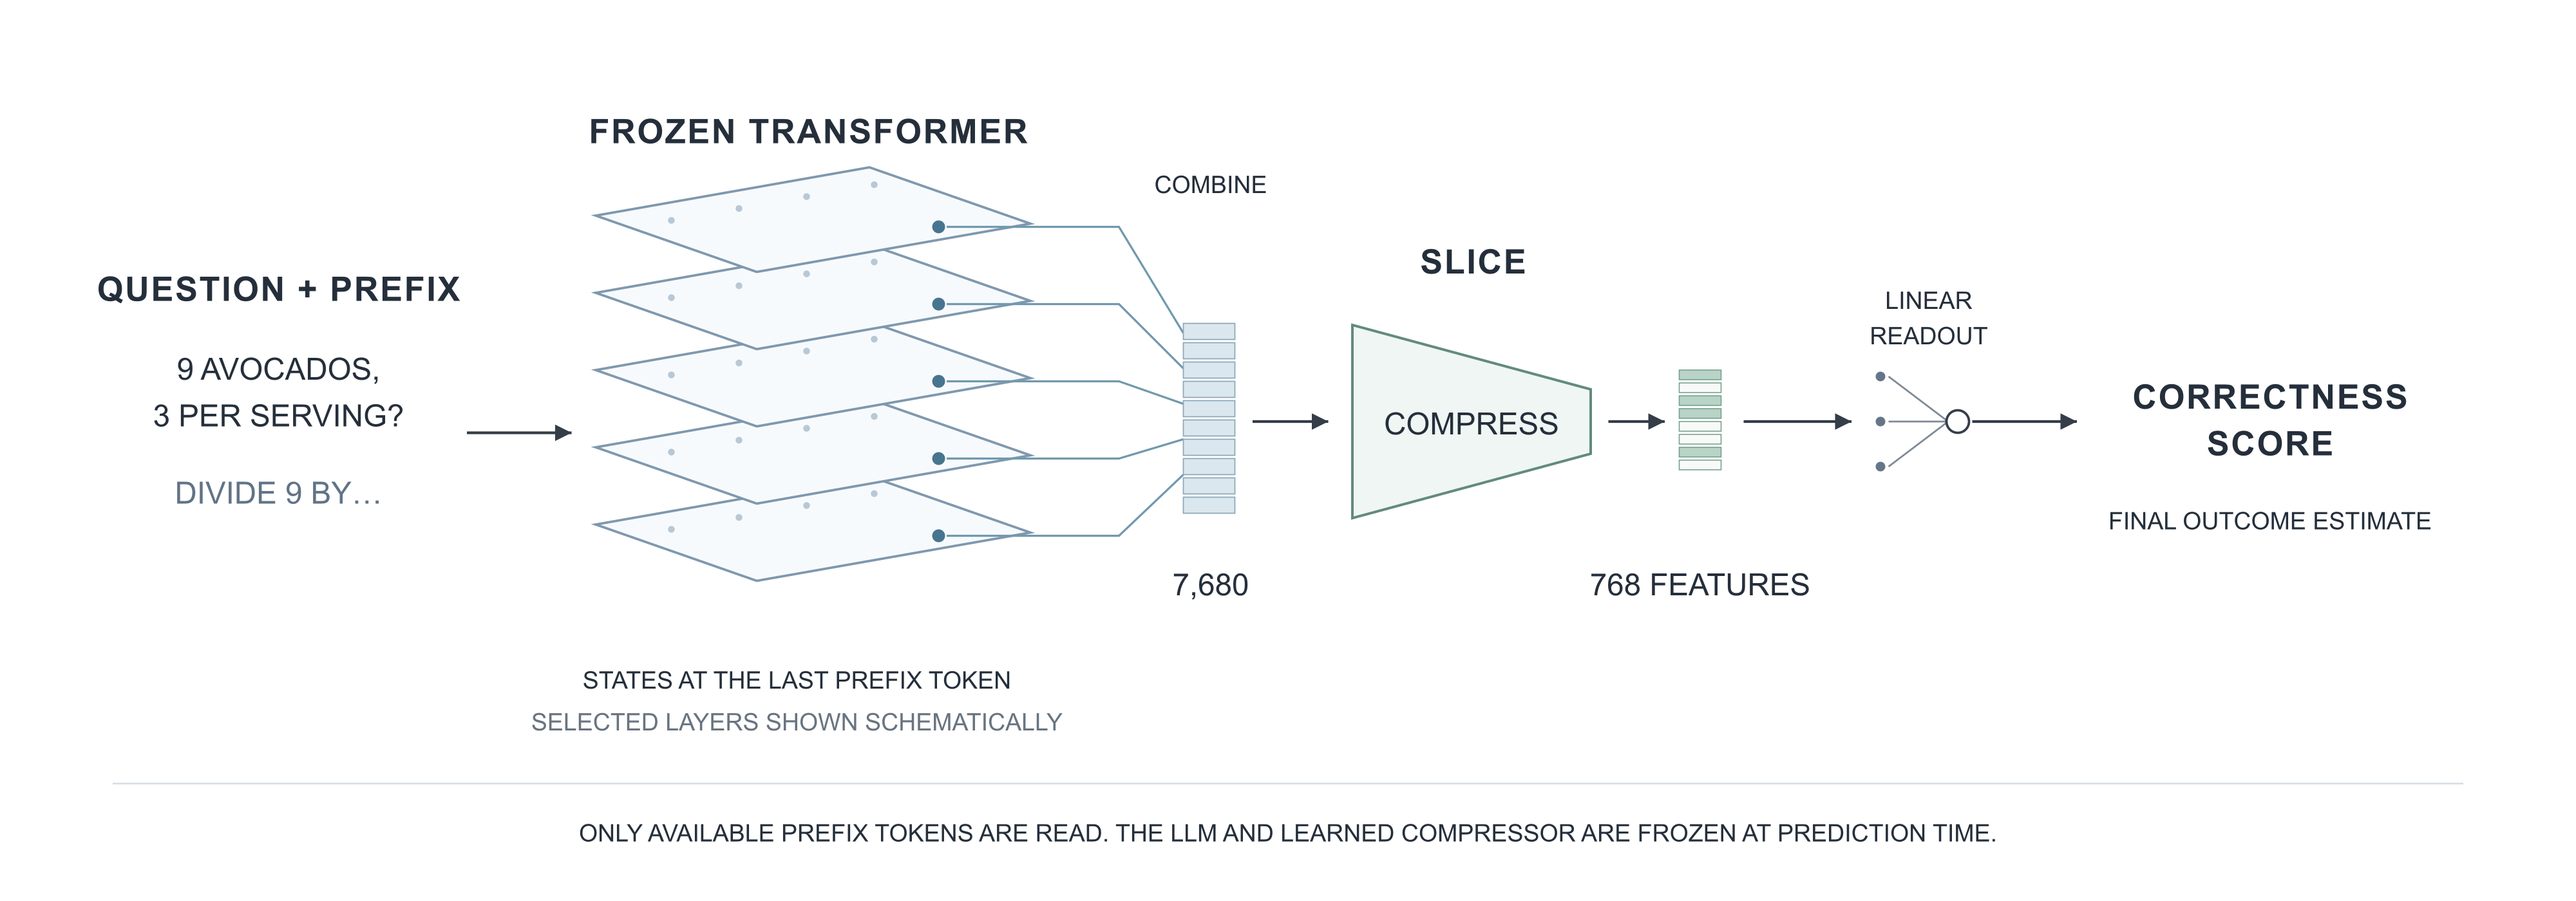
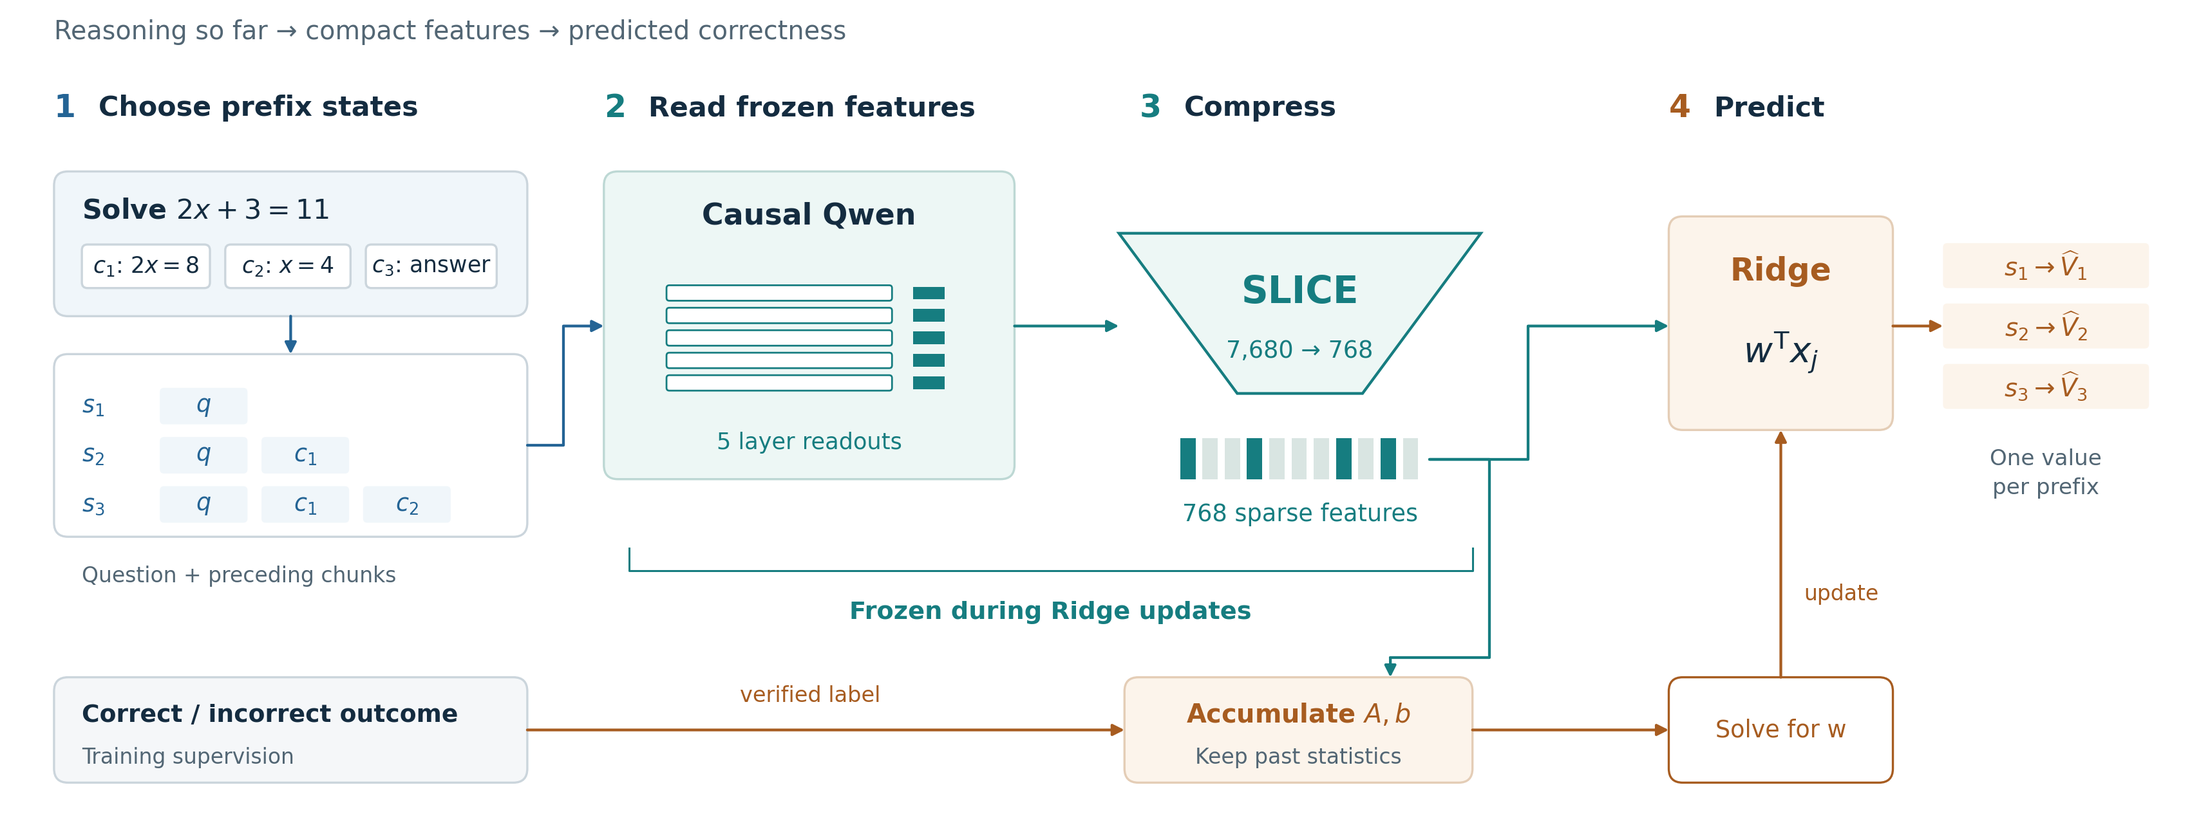
added comparisons

diff --git a/README.md b/README.md
@@ -155,6 +155,12 @@ python -m slice_probe layers --num-layers 28 --layer-base 2 --num-slices 5
 # {"layers": [28, 27, 25, 21, 13]}
 ```
 
+## Accuracy Results 
+
+The closer the points are to the dashed line, the closer the predictions are to the Monte Carlo estimates. SLICE/token achieves an average absolute error of 0.245, essentially matching the full transformer critic’s 0.245. SLICE/chunk has the lowest observed error at 0.237. This suggests that compact SLICE features preserve useful information for value prediction, even when fitting only at chunk boundaries.
+
+![MAE Results](docs/figures/comparison.png)
+
 ## Further reading
 
 - Zhu et al., [The LLM Already Knows](https://arxiv.org/abs/2509.12886).
